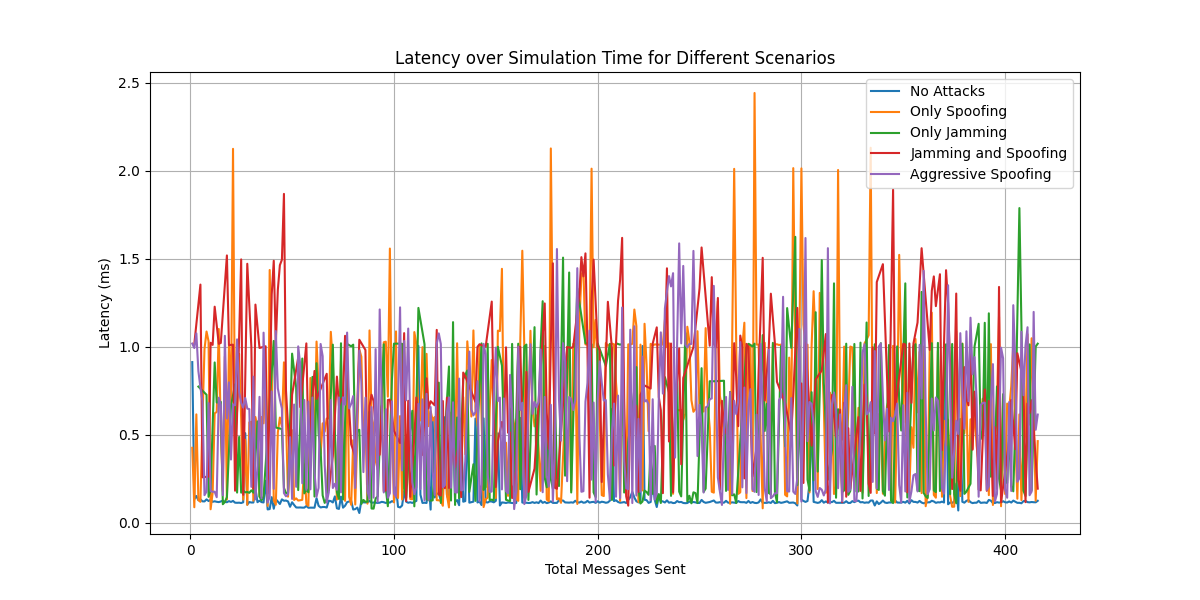
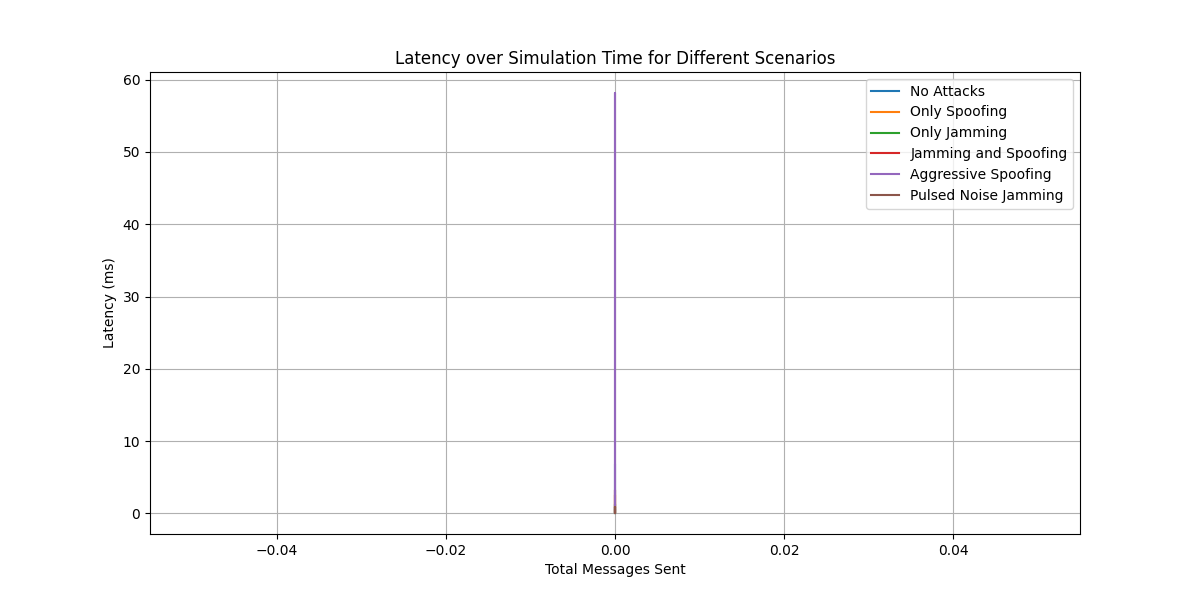
other functions for all the plots were deleted in Johnny's last commit, re-added them - Anisha

diff --git a/Drone-Sim-main/n_scen_stat.py b/Drone-Sim-main/n_scen_stat.py
@@ -48,7 +48,91 @@ scenarios = {
     "Aggressive Spoofing": {"jamming": False, "spoofing": True, "spoof_probability": 0.7},
     "Pulsed Noise Jamming": {"jamming": True, "spoofing": False}
 }
+def plot_snr_data(results):
+    """
+    Plots SNR data as both line plots and box plots for each scenario.
 
+    Parameters:
+        results (dict): Dictionary containing SNR data for each scenario.
+    """
+   
+
+    # Box Plot
+    plt.figure(figsize=(12, 6))
+    snr_data = []
+    scenarios = []
+    for scenario, data in results.items():
+        if 'snr' in data and data['snr']:
+            _, snr_values = zip(*data['snr'])
+            snr_data.extend(snr_values)
+            scenarios.extend([scenario] * len(snr_values))
+    sns.boxplot(x=scenarios, y=snr_data)
+    plt.xlabel('Scenario')
+    plt.ylabel('SNR (dB)')
+    plt.title('SNR Distribution across Different Scenarios')
+    plt.xticks(rotation=45)
+    plt.grid(True)
+    plt.savefig('results/snr_box_plot.png')
+    plt.show()
+
+def plot_latency_data(results):
+    plt.figure(figsize=(12, 6))
+    for scenario, data in results.items():
+        if 'latency' in data and data['latency']:
+            messages, latencies = zip(*data['latency'])
+            plt.plot(messages, latencies, label=scenario)
+    plt.xlabel('Total Messages Sent')
+    plt.ylabel('Latency (ms)')
+    plt.title('Latency over Simulation Time for Different Scenarios')
+    plt.legend()
+    plt.grid(True)
+    plt.savefig('results/latency_plot.png')
+    plt.show()
+
+def plot_throughput_data(results):
+    plt.figure(figsize=(12, 6))
+    for scenario, data in results.items():
+        if 'throughput' in data and data['throughput']:
+            times, throughputs = zip(*data['throughput'])
+            plt.plot(times, throughputs, label=scenario)
+    plt.xlabel('Elapsed Time (s)')
+    plt.ylabel('Throughput (messages/second)')
+    plt.title('Throughput over Simulation Time for Different Scenarios')
+    plt.legend()
+    plt.grid(True)
+    plt.savefig('results/throughput_plot.png')
+    plt.show()
+
+def plot_packet_loss_data(results, colors=None, output_path='results/packet_loss.png'):
+    """
+    Plots packet loss over time for each scenario.
+
+    Parameters:
+        results (dict): Dictionary containing packet loss data for each scenario.
+        colors (list, optional): List of colors for each scenario plot. Defaults to None.
+        output_path (str, optional): File path to save the plot image. Defaults to 'results/packet_loss.png'.
+    """
+    if colors is None:
+        colors = ['blue', 'green', 'orange', 'red', 'purple']
+
+    plt.figure(figsize=(12, 8))
+
+    for (scenario, data), color in zip(results.items(), colors):
+        if 'packet_loss' in data and data['packet_loss']:
+            times, packet_loss = zip(*data['packet_loss'])
+            plt.plot(times, packet_loss, label=scenario, color=color)
+
+    plt.xlabel('Total Messages Sent')
+    plt.ylabel('Packet Loss (%)')
+    plt.title('Packet Loss over Simulation Time for Different Scenarios')
+    plt.legend()
+    plt.grid(True)
+    plt.savefig(output_path)
+    plt.show()
+
+
+
+# Function to run a simulation scenario
 def run_simulation(jamming=False, spoofing=False, spoof_probability=0.5):
     """ Runs a simulation scenario with or without jamming/spoofing. """
     channel = ADSBChannel()
@@ -163,3 +247,13 @@ def plot_packet_loss_data(results, colors=None, output_path='results/packet_loss
     plt.show()
 
 plot_packet_loss_data(results)
+
+
+# Plotting SNR over time for each scenario
+plot_snr_data(results)
+
+# Plotting Latency over time for each scenario
+plot_latency_data(results)
+
+# Plotting Throughput over time for each scenario
+plot_throughput_data(results)
